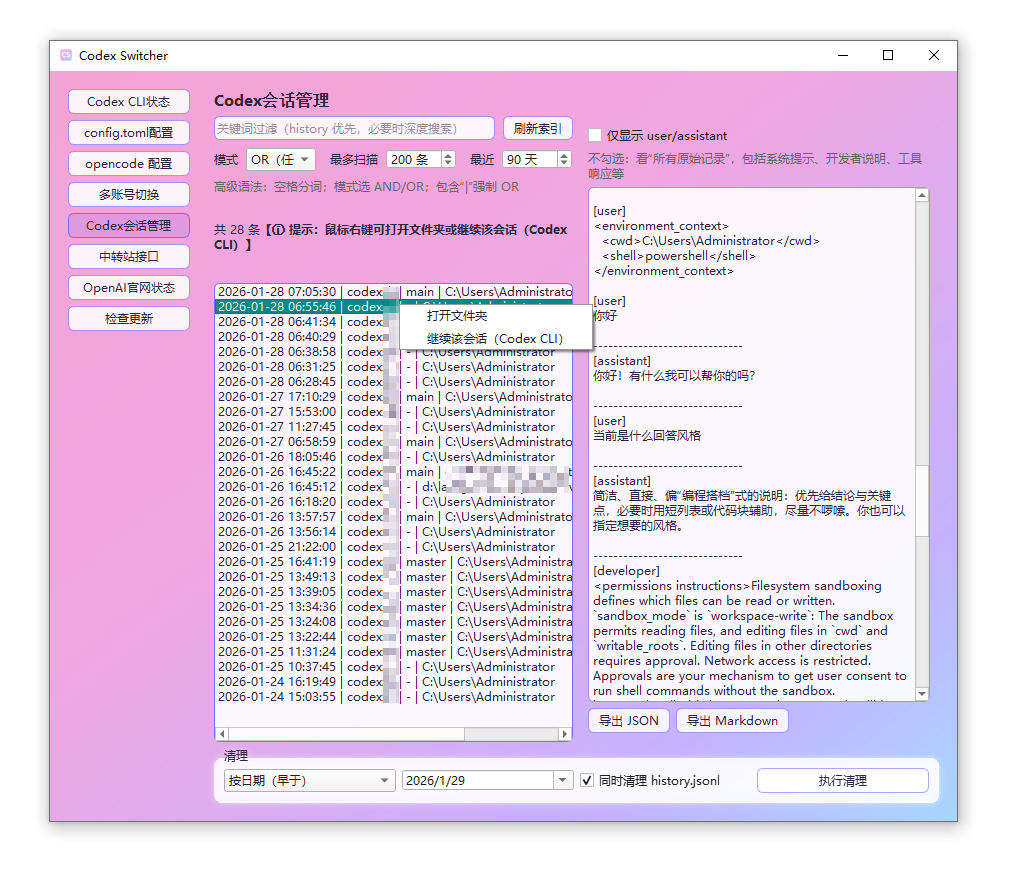
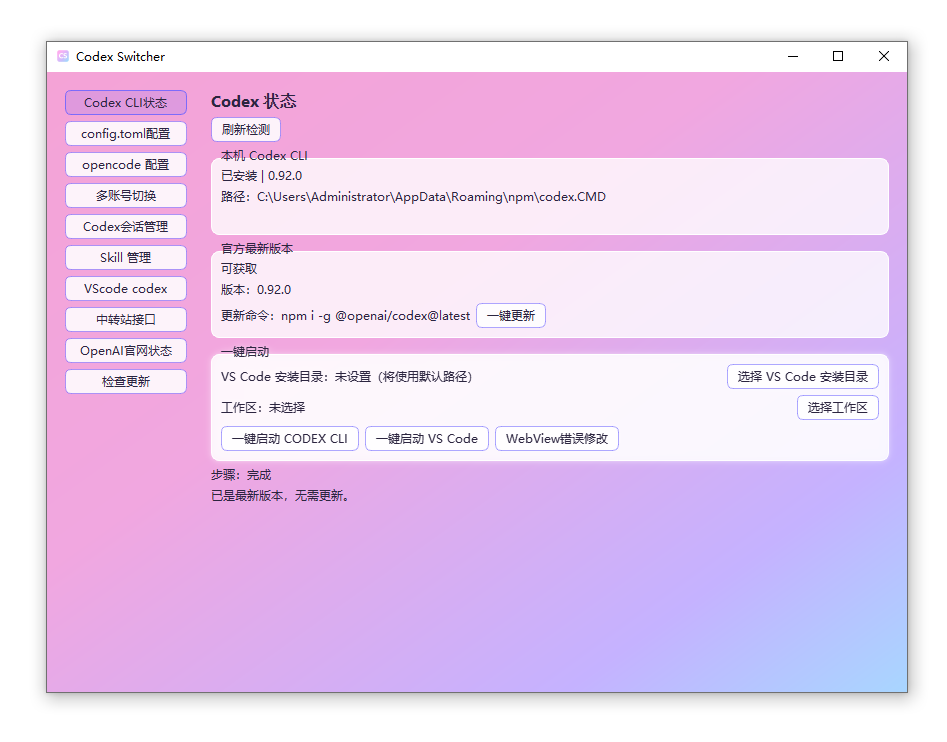
release: v2.0.4

diff --git a/pyside_switcher.py b/pyside_switcher.py
@@ -57,7 +57,7 @@ from codex_switcher import (
 
 
 APP_TITLE = "Codex Switcher"
-APP_VERSION = "2.0.3"
+APP_VERSION = "2.0.4"
 APP_REPO = "nkosi-fang/CodexSwitcher"
 
 CODING_COMPONENTS = [
@@ -3892,7 +3892,7 @@ class SessionManagerPage(QtWidgets.QWidget):
             row.setData(QtCore.Qt.UserRole, item)
             self.list_widget.addItem(row)
             shown += 1
-        self.count_label.setText(f"共 {shown} 条<b>【ⓘ 提示：鼠标右键可打开文件夹或继续该会话（Codex CLI）】</b>")
+        self.count_label.setText(f"共 {shown} 条<b>【ⓘ 提示：鼠标右键可打开文件夹 / 继续该会话（Codex CLI）/ VS Code打开该目录 / WebView 修复】</b>")
         if shown == 0 and show_empty:
             self.detail_text.setPlainText("无匹配会话。")
 
@@ -4136,11 +4136,17 @@ class SessionManagerPage(QtWidgets.QWidget):
         menu = QtWidgets.QMenu(self)
         open_folder = menu.addAction("打开文件夹")
         resume_session = menu.addAction("继续该会话（Codex CLI）")
+        resume_vscode = menu.addAction("VS Code打开该目录")
+        repair_webview = menu.addAction("WebView 修复")
         action = menu.exec(self.list_widget.mapToGlobal(pos))
         if action == open_folder:
             self._open_session_folder(item)
         elif action == resume_session:
             self._resume_session(item)
+        elif action == resume_vscode:
+            self._resume_session_vscode(item)
+        elif action == repair_webview:
+            self._resume_session_vscode(item, fix_webview=True)
 
     def _open_session_folder(self, item: QtWidgets.QListWidgetItem) -> None:
         meta = item.data(QtCore.Qt.UserRole)
@@ -4203,6 +4209,220 @@ class SessionManagerPage(QtWidgets.QWidget):
                 subprocess.Popen(cmd, env=env, cwd=run_cwd)
         except Exception as exc:
             message_error(self, "失败", str(exc))
+
+    def _resume_session_vscode(self, item: QtWidgets.QListWidgetItem, fix_webview: bool = False) -> None:
+        meta = item.data(QtCore.Qt.UserRole)
+        if not isinstance(meta, dict):
+            return
+        cwd = meta.get("cwd", "")
+        if not cwd or not os.path.isdir(cwd):
+            message_warn(self, "提示", "未找到会话工作目录，无法在 VS Code 中继续")
+            return
+        sid = meta.get("id", "")
+        if not sid:
+            message_warn(self, "提示", "未找到会话 ID，无法继续")
+            return
+        if fix_webview:
+            def worker() -> None:
+                self._kill_vscode_processes()
+                self._clear_vscode_cache(self._get_saved_vscode_install_dir())
+                run_in_ui(lambda: self._launch_vscode_for_session(cwd))
+            threading.Thread(target=worker, daemon=True).start()
+            return
+        self._launch_vscode_for_session(cwd)
+
+    def _launch_vscode_for_session(self, cwd: str) -> None:
+        code_cli = self._find_vscode_cli()
+        args = None
+        if code_cli and self._vscode_supports_command(code_cli):
+            args = [code_cli, "-r", cwd, "--command", "chatgpt.openSidebar"]
+        else:
+            if code_cli:
+                args = [code_cli, "-r", cwd]
+            else:
+                code_exe = self._find_vscode_exe()
+                if code_exe:
+                    args = [code_exe, cwd]
+            self._ensure_open_on_startup(Path(cwd))
+        if not args:
+            message_warn(self, "提示", "未找到 VS Code，可先安装或在 PATH 中启用 code 命令")
+            return
+        try:
+            subprocess.Popen(args)
+        except Exception as exc:
+            message_error(self, "失败", str(exc))
+            return
+        message_info(
+            self,
+            "提示",
+            "官方Codex vscode插件还未支持通过会话ID继续会话的接口，只会打开该会话所在工作目录。\n\n如需查看会话记录，请通过右侧会话详情，或在CODEX CLI续聊。",
+        )
+
+    def _get_saved_vscode_install_dir(self) -> Optional[Path]:
+        saved = self.state.vscode_install_dir if isinstance(self.state.vscode_install_dir, str) else None
+        if saved:
+            path = Path(saved)
+            if path.exists():
+                return path
+        return None
+
+    def _find_vscode_cli(self) -> Optional[str]:
+        for name in ("code", "code.cmd", "code.exe", "code-insiders", "code-insiders.cmd"):
+            path = shutil.which(name)
+            if path:
+                return path
+        return None
+
+    def _find_vscode_exe_in_dir(self, root: Path) -> Optional[str]:
+        candidates = [
+            root / "Code.exe",
+            root / "Code - Insiders.exe",
+        ]
+        for candidate in candidates:
+            if candidate.is_file():
+                return str(candidate)
+        return None
+
+    def _find_vscode_exe(self) -> Optional[str]:
+        saved = self.state.vscode_install_dir if isinstance(self.state.vscode_install_dir, str) else None
+        if saved:
+            root = Path(saved)
+            if root.exists():
+                exe = self._find_vscode_exe_in_dir(root)
+                if exe:
+                    return exe
+        candidates = []
+        local = os.environ.get("LOCALAPPDATA")
+        program = os.environ.get("ProgramFiles") or os.environ.get("PROGRAMFILES")
+        program_x86 = os.environ.get("ProgramFiles(x86)") or os.environ.get("PROGRAMFILES(X86)")
+        if local:
+            candidates.append(Path(local) / "Programs" / "Microsoft VS Code" / "Code.exe")
+            candidates.append(Path(local) / "Programs" / "Microsoft VS Code Insiders" / "Code - Insiders.exe")
+        if program:
+            candidates.append(Path(program) / "Microsoft VS Code" / "Code.exe")
+            candidates.append(Path(program) / "Microsoft VS Code Insiders" / "Code - Insiders.exe")
+        if program_x86:
+            candidates.append(Path(program_x86) / "Microsoft VS Code" / "Code.exe")
+            candidates.append(Path(program_x86) / "Microsoft VS Code Insiders" / "Code - Insiders.exe")
+        for candidate in candidates:
+            if candidate.is_file():
+                return str(candidate)
+        return None
+
+    def _vscode_supports_command(self, code_cli: str) -> bool:
+        try:
+            creationflags = 0x08000000 if os.name == "nt" else 0
+            proc = subprocess.run([code_cli, "--help"], capture_output=True, text=True, timeout=3, creationflags=creationflags)
+        except Exception:
+            return False
+        output = (proc.stdout or "") + (proc.stderr or "")
+        return "--command" in output
+
+    def _load_jsonc(self, text: str) -> dict:
+        no_block = re.sub(r"/\*.*?\*/", "", text, flags=re.S)
+        no_line = re.sub(r"//.*", "", no_block)
+        try:
+            return json.loads(no_line) if no_line.strip() else {}
+        except Exception:
+            return {}
+
+    def _ensure_open_on_startup(self, workspace: Path) -> bool:
+        settings_path = workspace / ".vscode" / "settings.json"
+        try:
+            settings_path.parent.mkdir(parents=True, exist_ok=True)
+            raw = settings_path.read_text(encoding="utf-8", errors="ignore") if settings_path.exists() else ""
+            data = self._load_jsonc(raw)
+            data["chatgpt.openOnStartup"] = True
+            settings_path.write_text(json.dumps(data, ensure_ascii=False, indent=2), encoding="utf-8")
+            return True
+        except Exception:
+            return False
+
+    def _kill_vscode_processes(self) -> None:
+        targets = [
+            "Code.exe",
+            "Code - Insiders.exe",
+            "msedgewebview2.exe",
+            "ServiceHub.RoslynCodeAnalysisService.exe",
+            "ServiceHub.Host.Node.x64.exe",
+            "ServiceHub.TestWindowStoreHost.exe",
+        ]
+        for name in targets:
+            try:
+                subprocess.run(["taskkill", "/F", "/T", "/IM", name], capture_output=True, text=True)
+            except Exception:
+                continue
+
+    def _clear_vscode_cache(self, install_dir: Optional[Path] = None) -> None:
+        appdata = os.environ.get("APPDATA")
+        local = os.environ.get("LOCALAPPDATA")
+        paths = []
+        channel = None
+        portable_user_data = None
+        if install_dir:
+            if (install_dir / "Code - Insiders.exe").is_file():
+                channel = "insiders"
+            elif (install_dir / "Code.exe").is_file():
+                channel = "stable"
+            portable_root = install_dir / "data" / "user-data"
+            if portable_root.is_dir():
+                portable_user_data = portable_root
+        if portable_user_data:
+            base = portable_user_data
+            paths += [
+                base / "WebView",
+                base / "CachedData",
+                base / "Cache",
+                base / "GPUCache",
+                base / "Local Storage",
+                base / "Service Worker" / "CacheStorage",
+                base / "Service Worker" / "ScriptCache",
+                base / "User" / "workspaceStorage",
+                base / "User" / "globalStorage",
+            ]
+        else:
+            if channel == "stable":
+                names = ["Code"]
+            elif channel == "insiders":
+                names = ["Code - Insiders"]
+            else:
+                names = ["Code", "Code - Insiders"]
+            if appdata:
+                base = Path(appdata)
+                for name in names:
+                    root = base / name
+                    paths += [
+                        root / "WebView",
+                        root / "CachedData",
+                        root / "Cache",
+                        root / "GPUCache",
+                        root / "Local Storage",
+                        root / "Service Worker" / "CacheStorage",
+                        root / "Service Worker" / "ScriptCache",
+                    ]
+            if local:
+                base = Path(local) / "Microsoft"
+                if channel == "stable":
+                    local_names = ["Code"]
+                elif channel == "insiders":
+                    local_names = ["Code - Insiders"]
+                else:
+                    local_names = ["Code", "Code - Insiders"]
+                for name in local_names:
+                    root = base / name
+                    paths += [
+                        root / "User" / "workspaceStorage",
+                        root / "User" / "globalStorage",
+                    ]
+                paths.append(Path(local) / "Temp" / "Code")
+        for p in paths:
+            try:
+                if p.is_dir():
+                    shutil.rmtree(p, ignore_errors=True)
+                elif p.exists():
+                    p.unlink(missing_ok=True)
+            except Exception:
+                continue
 
     def export_json(self) -> None:
         item = self.list_widget.currentItem()
@@ -4480,7 +4700,6 @@ class OpenAIStatusPage(QtWidgets.QWidget):
 
         return "<br>".join(html_lines).strip()
 
-
 class MainWindow(QtWidgets.QMainWindow):
     def __init__(self) -> None:
         super().__init__()
@@ -4528,7 +4747,7 @@ class MainWindow(QtWidgets.QMainWindow):
         self._add_nav_button(nav, "多账号切换", "account")
         self._add_nav_button(nav, "Codex会话管理", "sessions")
         self._add_nav_button(nav, "Skill 管理", "skills")
-        self._add_nav_button(nav, "Codex VS Code配置", "vscode_plugin")
+        self._add_nav_button(nav, "VScode codex", "vscode_plugin")
         self._add_nav_button(nav, "中转站接口", "network")
         self._add_nav_button(nav, "OpenAI官网状态", "openai_status")
         self._add_nav_button(nav, "检查更新", "settings")

diff --git a/RELEASE_TEMPLATE.md b/RELEASE_TEMPLATE.md
@@ -1,24 +1,68 @@
 # Release 模板
 
 ## 标题
-v2.0.3 (Windows)
+v2.0.4 (Windows)
 
 ## 下载
-- CodexSwitcher_v2.0.3.exe
+- CodexSwitcher_v2.0.4.exe
 
 ## 校验（可选）
-- SHA256: 16F92BEAD560AEDD7D771C27882DDD690A30A695BE1191544381B36A3783BB6E
+- SHA256: EA329495B1B9CE6EB23510FECFFD606D40106118D9F5F44636A545F4759847ED
 
 ## 首次运行提示
 - 如首次运行出现 Windows SmartScreen 提示，这是因为未进行代码签名；请确认下载来源为 GitHub Releases，并核对 SHA256 后再运行。
 
 ## 变更
-- 新增「Codex会话管理」页：集中管理会话索引、详情、导出（JSON/Markdown）与清理，便于查找与归档。
-- 归档视图优化：在 user/assistant/系统提示/开发者说明/工具响应之间自动插入分割线，阅读更清晰。
-- 会话检索增强：支持 OR/AND 多关键词、history 优先 + 深度搜索、进度与取消，可检索本地全部 Codex 会话。
-- 会话列表右键：支持“继续该会话（Codex CLI）”，在 PowerShell 终端快速续聊。
-- OpenAI官网状态：刷新后同步官方服务状态，或一键打开 status.openai.com。
+1) Skill 管理功能完善
 
+  - 识别并读取 ~/.codex/skills 与 ~/.codex/skills/user 子目录
+  - 解析 SKILL.md 中的 name/description 用于展示
+  - 系统技能只读保护
+  - 增加“备份技能 / 打开备份目录 / 打开技能目录”
+  - 备份保留策略（保留最近 5 份）
+
+  2) Codex 状态页增强
+
+  - 移除“诊断信息”模块显示
+  - 官方版本卡片新增“一键更新”
+  - 新增“一键启动”区：
+      - 选择工作区
+      - 一键启动 Codex CLI
+      - 一键启动 VS Code
+  - VS Code 启动后自动打开 Codex 侧边栏（能用 --command 时）
+  - VS Code 工作区启动失败时改为写入 chatgpt.openOnStartup
+
+  3) VS Code 安装目录管理
+
+  - 可选择并保存 VS Code 安装目录
+  - 下次启动/修复优先使用该目录
+  - 便携版支持（检测 data/user-data）
+
+  4) WebView 错误修复功能
+
+  - 新增“WebView错误修改”按钮
+  - 自动结束 VS Code / WebView 相关进程
+  - 清理 WebView 与缓存目录
+  - 修复后自动重启 VS Code
+
+  5) Codex VS Code 插件配置页
+
+  - 插件扫描、版本展示、最新版本（Marketplace）
+  - index 文件路径自动换行显示
+  - 提示文案优化（重启提示、原理说明等）
+  - 导航名称已改为 “VScode codex”
+
+  6) 会话管理增强
+
+  - 右键菜单新增：
+      - “VS Code打开该目录”
+      - 只打开侧边栏 + 当前会话目录
+      - 弹窗说明插件暂不支持通过 session_id 继续
+  - 提示文案同步更新
+
+  - 适配 .cmd/.bat 启动方式（cmd /k）
+  - 支持 npm prefix -g 路径探测
+  - 避免 “找不到文件” 报错
 ## 已知问题
 
 - codex cli最新版本0.92可能会出现沙盒相关警告，请自行手动在config.toml中添加“suppress_unstable_features_warning = true”。添加位置如截图：

diff --git a/README.md b/README.md
@@ -2,21 +2,16 @@
 
 ## 界面截图
 ![界面截图](docs/images/ui1.png)
-![界面截图2](docs/images/ui2.png)
 
 ## 完整功能
+- **Codex CLI 状态页**：移除“诊断信息”；新增一键更新、一键启动 Codex CLI / VS Code、一键修复常见 WebView 视图错误
 - **Codex CLI 生态配置**：检测本机 codex 路径/版本，并提供 config.toml 与 opencode 配置管理
 - **多账号切换**：管理多个账号/密钥/中转站地址，一键切换生效
-- **中转站接口诊断**：检测 Base URL 连通性、接口可用性、模型/embedding/moderation 探测
-- **Codex 会话管理**：
-  - 会话索引：显示时间、目录、模型、分支等
-  - 详情查看：按角色分隔展示对话内容
-  - 高级检索：OR/AND、多关键词、history 优先 + 深度搜索、进度与取消
-  - 导出：JSON / Markdown
-  - 清理：按日期/大小批量清理
-  - 右键：打开会话文件夹、继续该会话（Codex CLI）
-- **OpenAI 官网状态**：同步展示 status.openai.com 组件状态，并按异常类型着色
-
+- **Codex 会话管理**：索引/详情/高级检索/导出/清理；右键打开文件夹、继续 CLI 会话、VS Code 打开会话目录、WebView 修复
+- **Skill 管理**：支持扫描识别本地 Codex skill，查看、导入、备份、删除
+- **VS Code 插件增强**：支持一键增加 OAI 新模型，免去手动修改 DEFAULT_MODEL_ORDER
+- **中转站接口诊断**：连通性、接口可用性、模型/embedding/moderation 探测
+- **OpenAI 官网状态**：同步展示 status.openai.com 组件状态并分类着色
 ## 使用说明
 - 双击运行 `CodexSwitcher_v2.exe`
 - 在「多账号切换」中添加/管理账号
